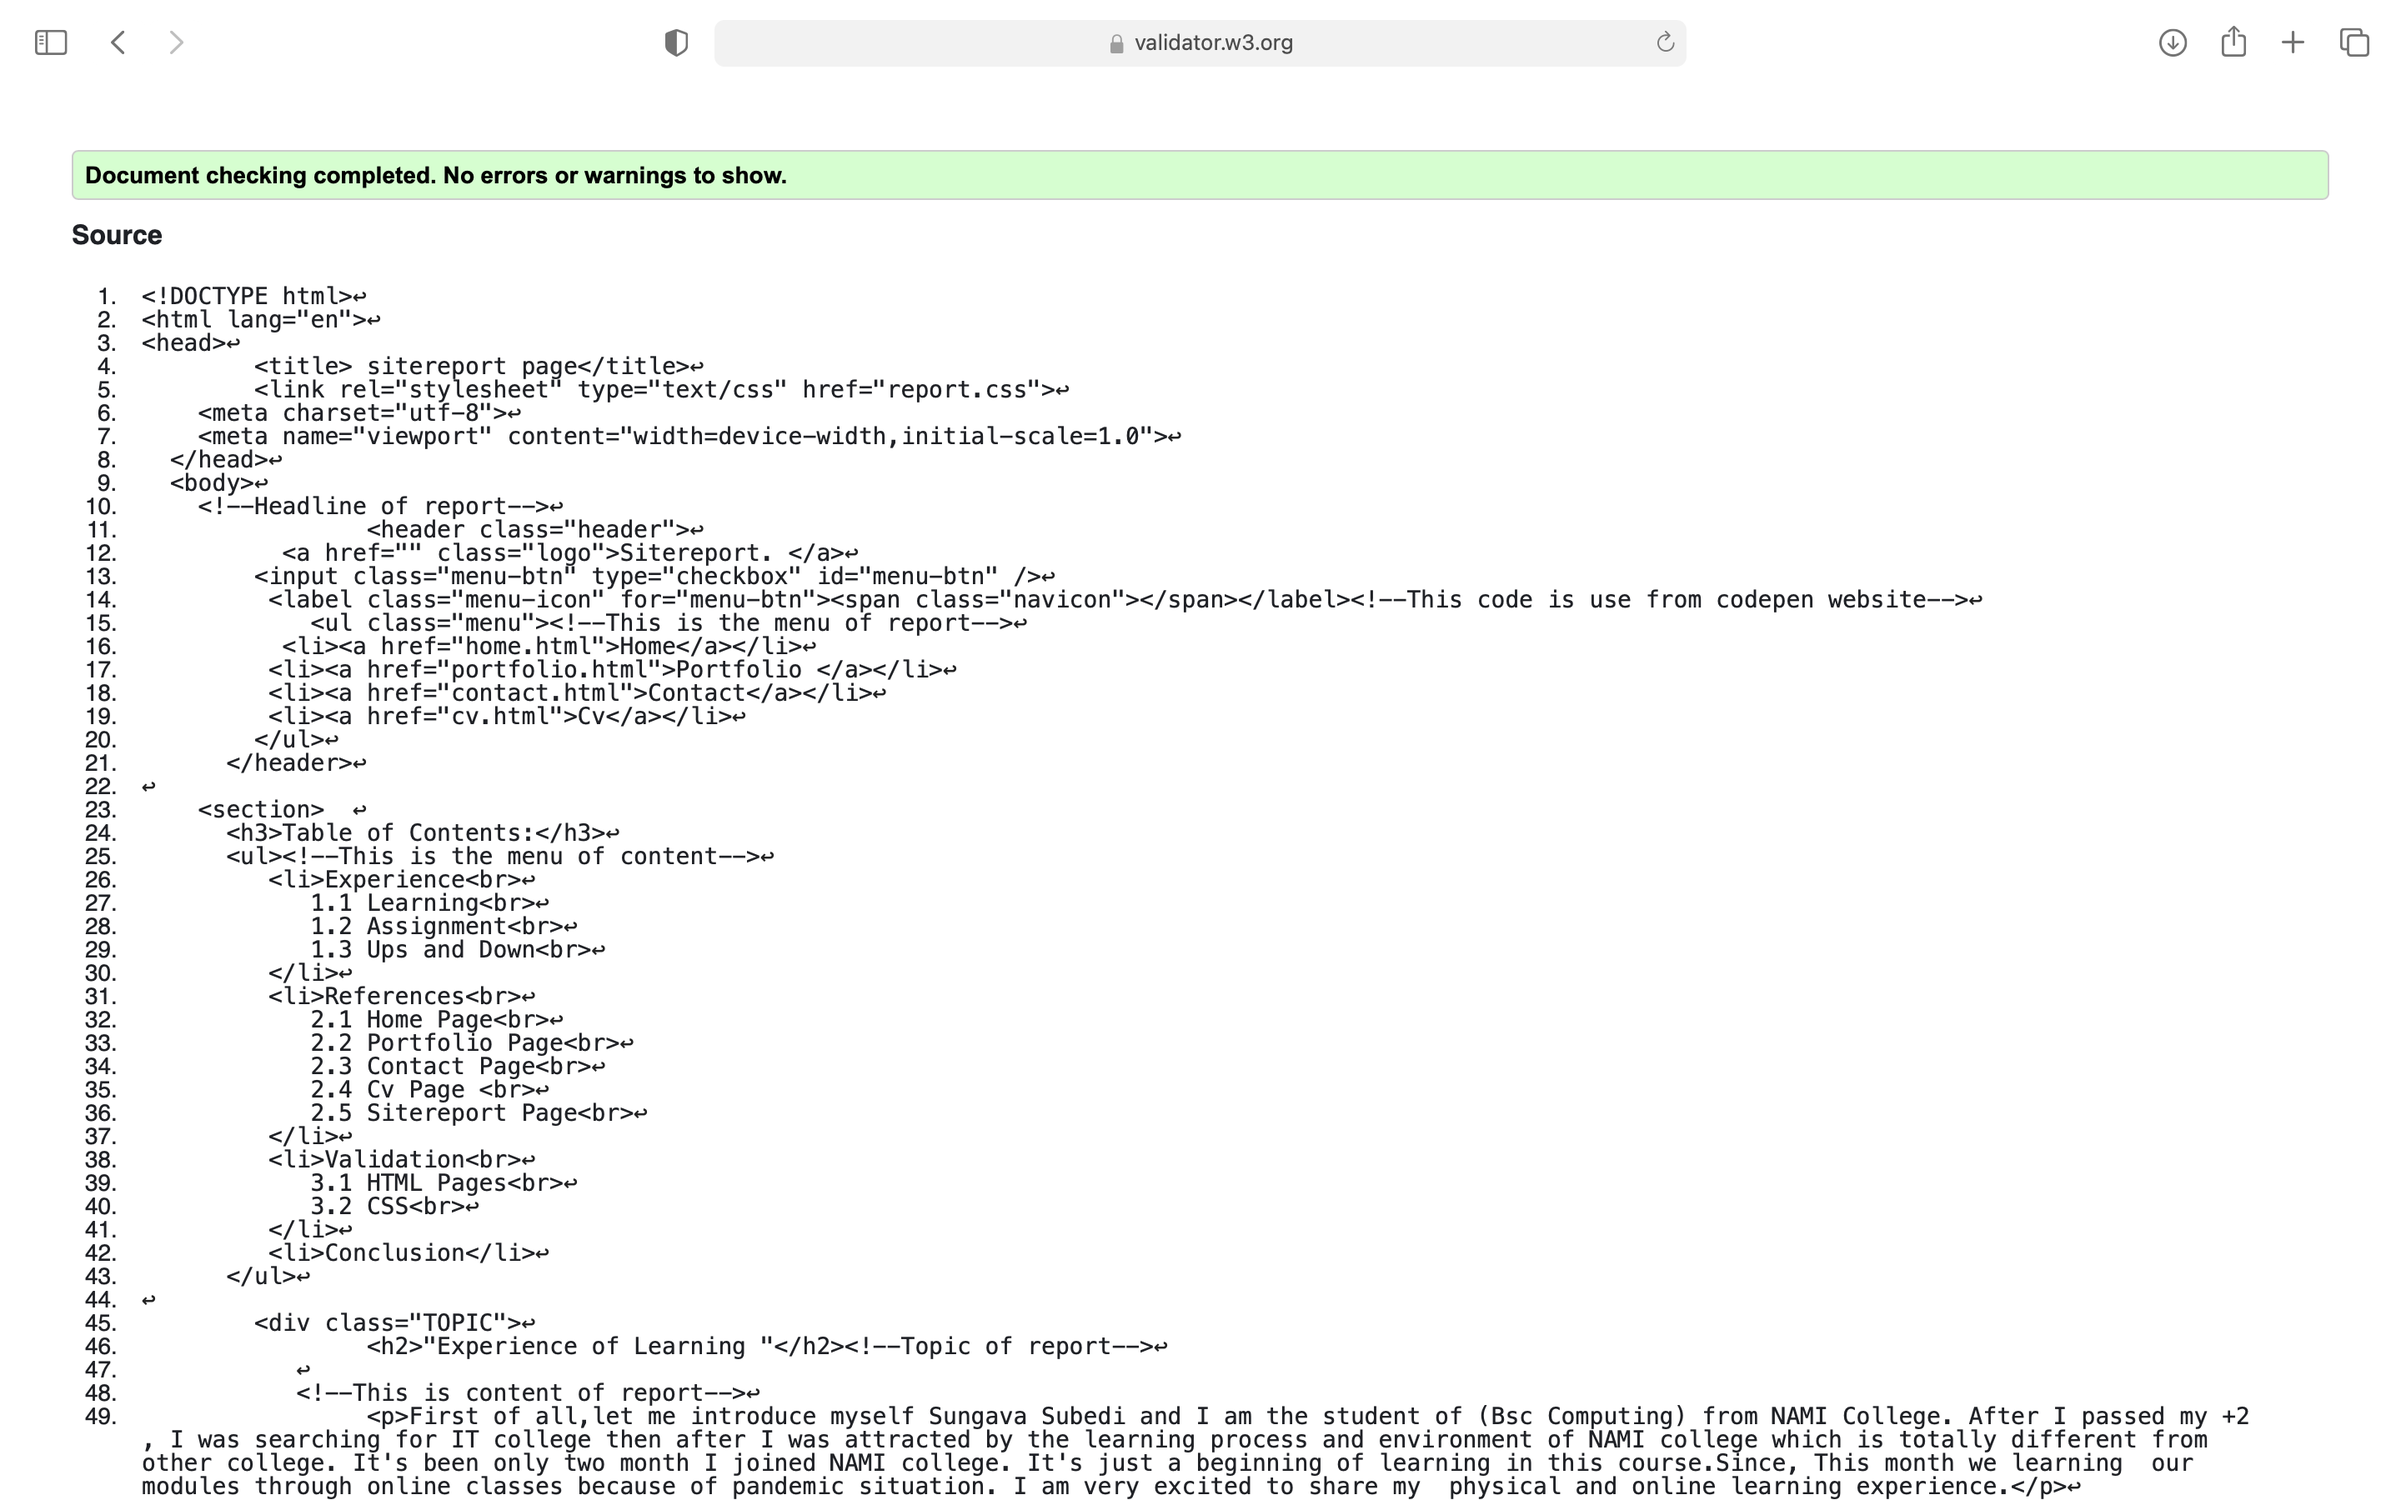
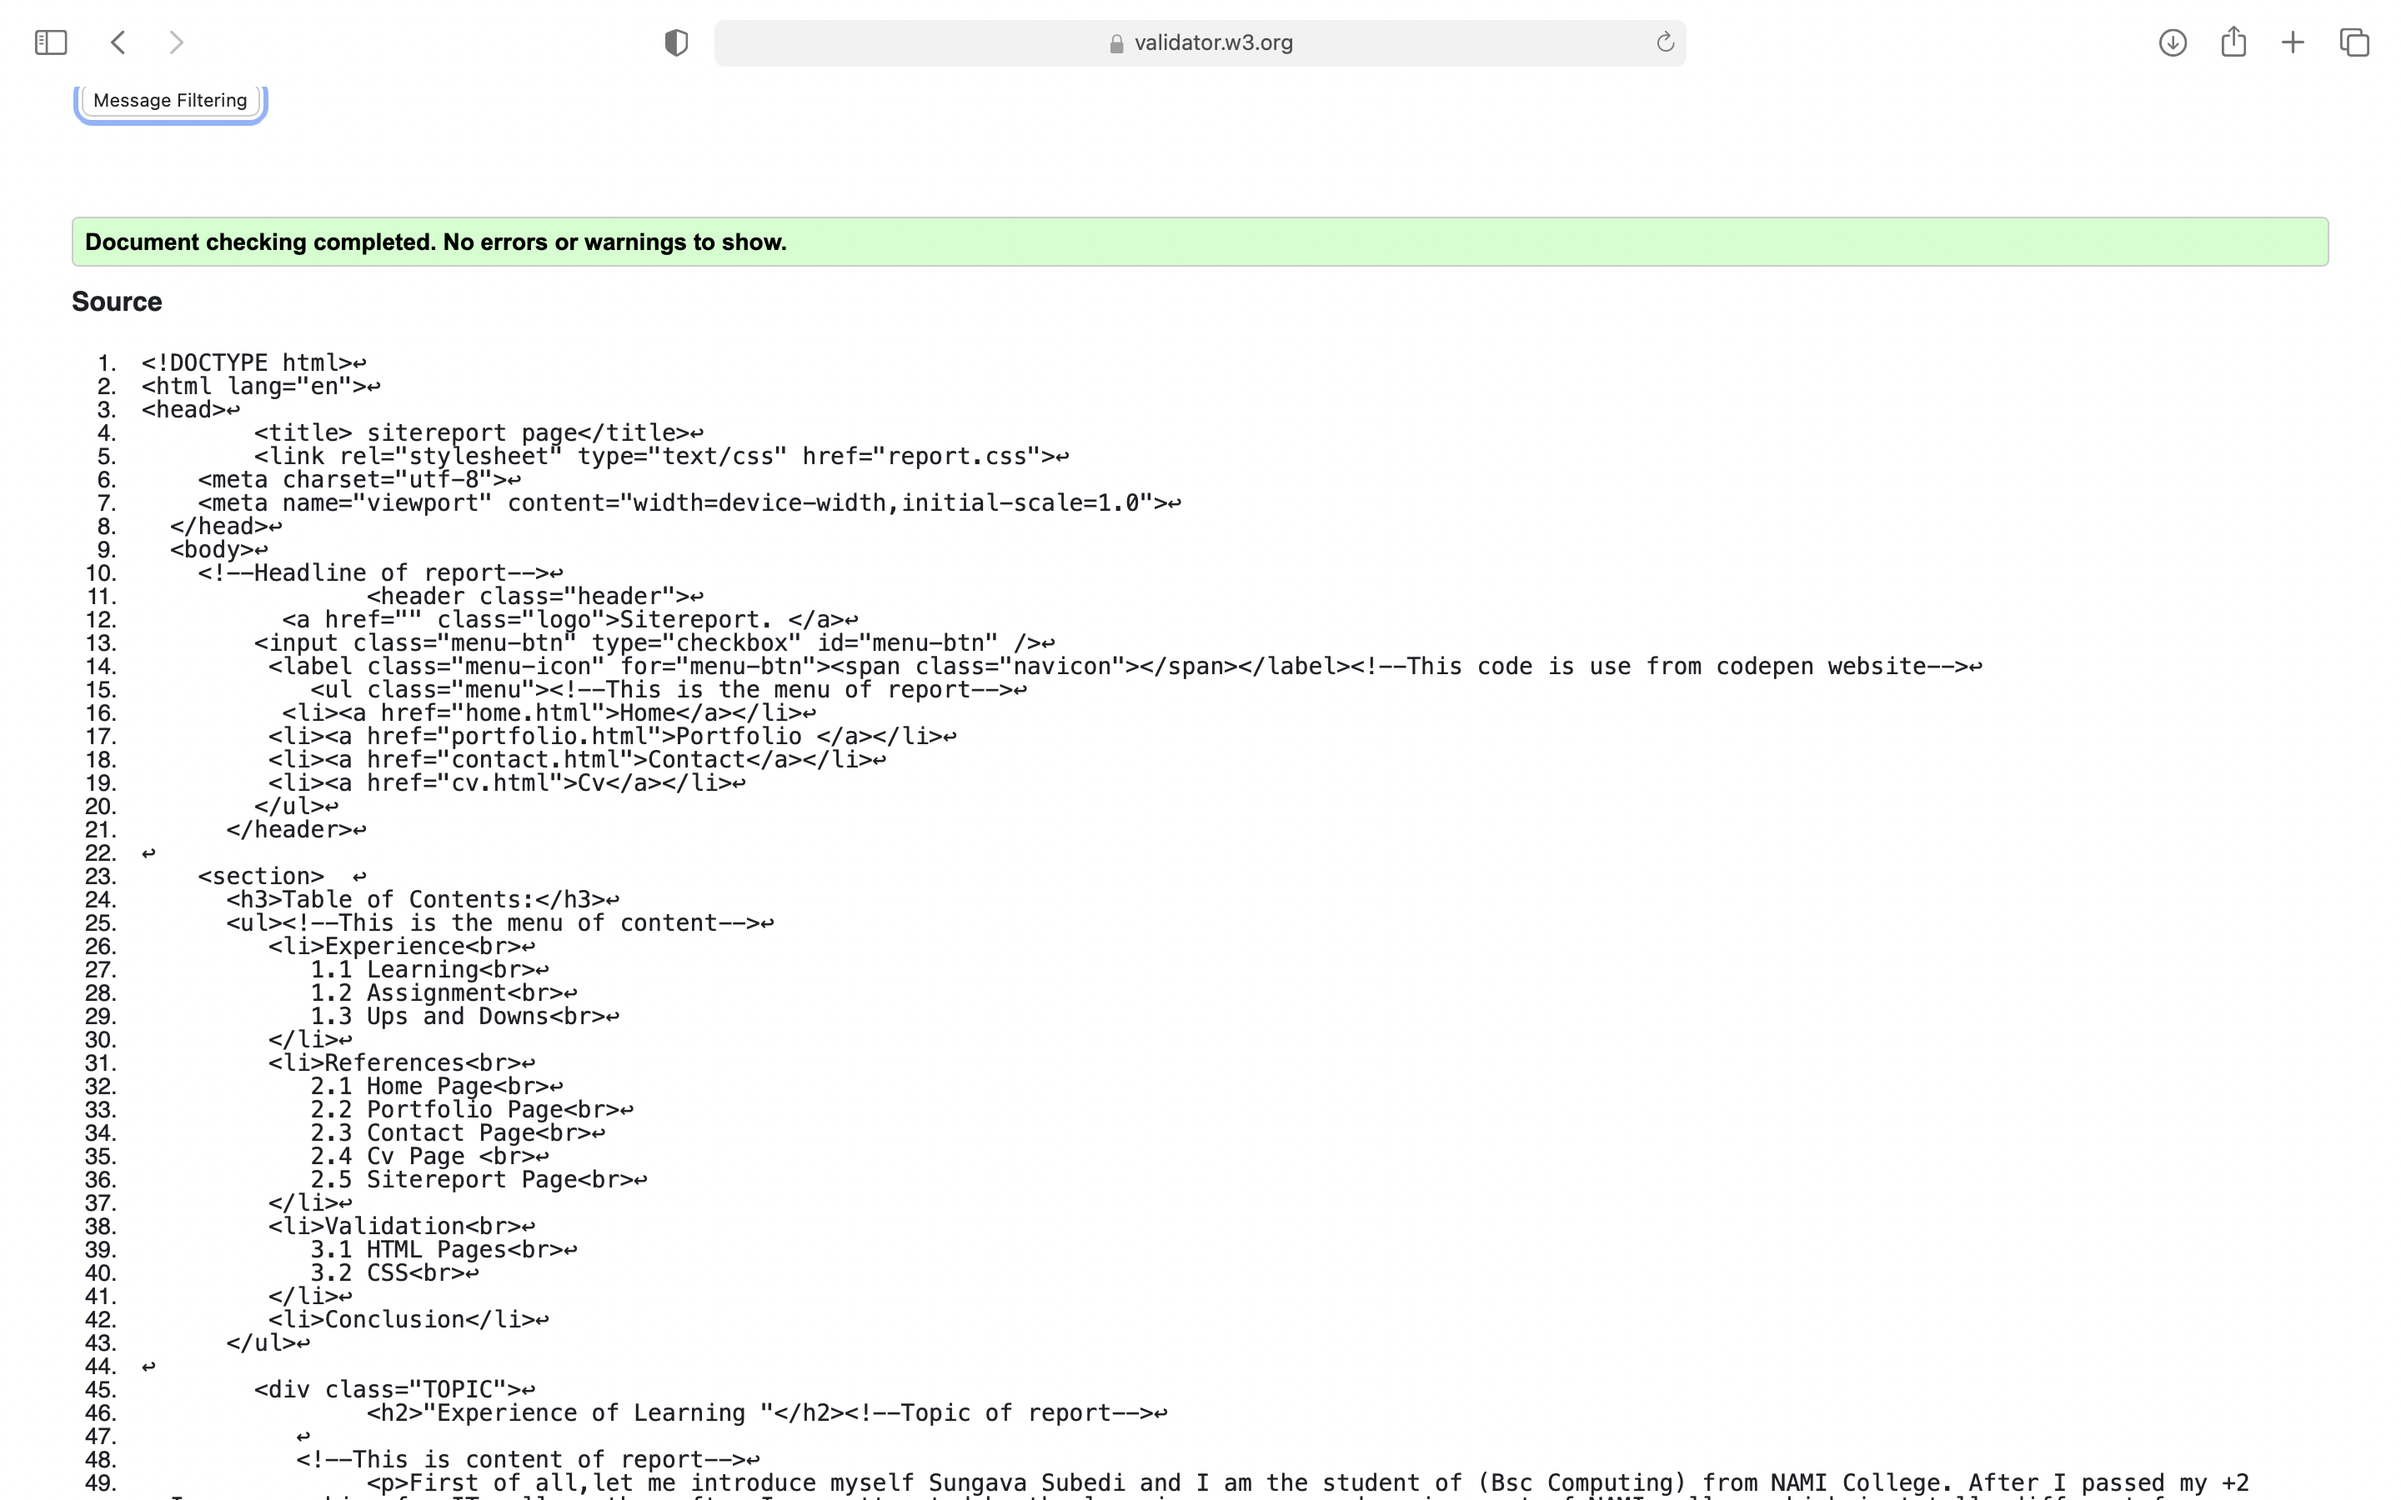
My Assignment

diff --git a/sitereport.html b/sitereport.html
@@ -26,7 +26,7 @@
          <li>Experience<br>
             1.1 Learning<br>
             1.2 Assignment<br>
-            1.3 Ups and Down<br>
+            1.3 Ups and Downs<br>
          </li>
          <li>References<br>
             2.1 Home Page<br>
